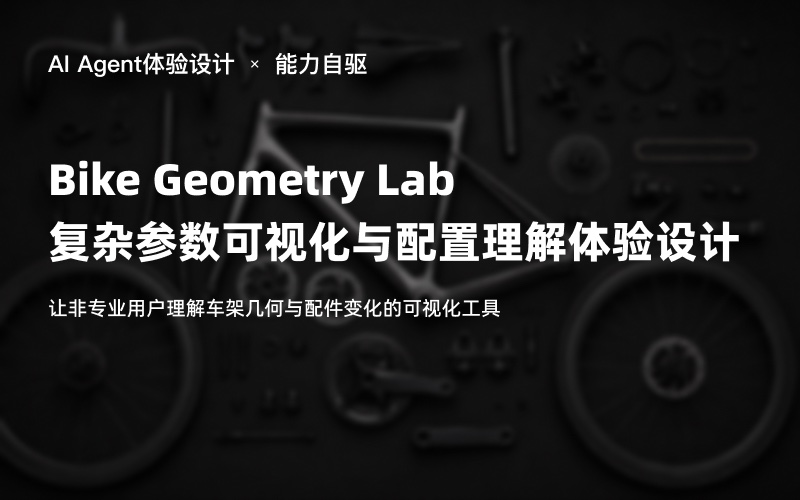
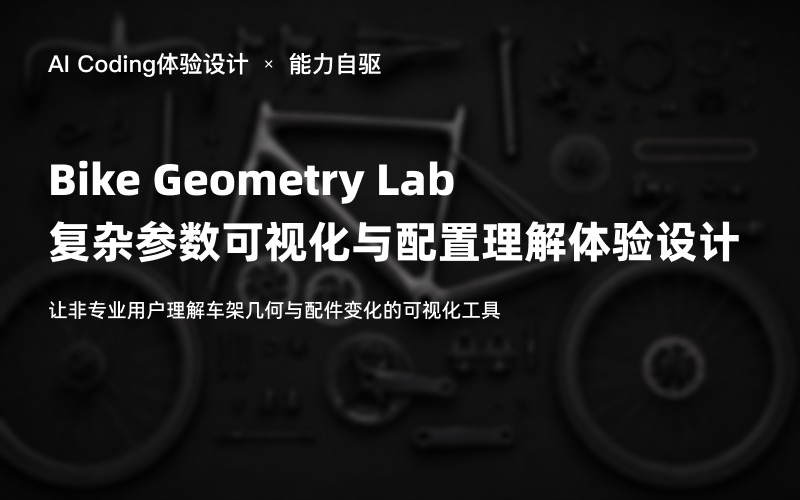
1

Changed region(s): [[0.0625, 0.6, 0.625, 0.66], [0.0938, 0.09, 0.5, 0.15]]

diff --git a/src/main.jsx b/src/main.jsx
@@ -15,6 +15,13 @@ gsap.registerPlugin(ScrollTrigger)
 
 const scrollToPageTop = () => window.scrollTo({ top: 0, left: 0, behavior: 'auto' })
 const detailReturnTargetKey = 'portfolio:return-to-work'
+const projectCategoryLabels = {
+  '全部': '全部',
+  'UX体验设计': '核心UX项目',
+  '个人项目自驱': 'AI实践探索',
+  'C端项目视觉': 'UI视觉作品',
+  '创作者与生产力平台': 'B端复杂系统',
+}
 
 const markDetailReturnToWork = () => {
   window.sessionStorage.setItem(detailReturnTargetKey, '1')
@@ -301,11 +308,14 @@ function HomePage() {
             aria-selected={activeProjectCategory === category}
             onClick={() => setActiveProjectCategory(category)}
           >
-            {category}
+            {projectCategoryLabels[category] || category}
             {category === 'UX体验设计' && <span className="project-tab-badge">HOT</span>}
           </button>)}
         </div>
         <div className="project-list" key={activeProjectCategory}>
+          {activeProjectCategory === 'C端项目视觉' && visibleProjects.length === 0 && <div className="project-empty-state" role="status">
+            <p>作者正在疯狂爆肝补充作品</p>
+          </div>}
           {visibleProjects.map((p) => <BorderGlow className="project-glow" key={p.index} data-stagger-item>
             <a
               className={`project-card project-link${p.coverOnly ? ' is-cover-only' : ''}`}
@@ -455,7 +465,9 @@ function ProjectDetail({ project }) {
       <div className="shell detail-intro">
         <div className="detail-intro-grid">
           <h2>{project.title.split('\n').map((line) => <React.Fragment key={line}>{line}<br/></React.Fragment>)}</h2>
-          <p>{project.description}</p>
+          <p className={project.detailDemoUrl ? 'detail-demo-copy' : undefined}>{project.detailDemoUrl
+            ? <>高保真演示：<a className="detail-demo-link" href={project.detailDemoUrl} target="_blank" rel="noreferrer">{project.detailDemoUrl}</a></>
+            : project.description}</p>
         </div>
       </div>
       <div className="shell detail-media-stack">

diff --git a/src/styles.css b/src/styles.css
@@ -507,4 +507,6 @@ body .hero-actions a,body .contact-actions a{border-radius:6px}.project-glow,.pr
 .project-detail .portfolio-assistant-fab.detail-assistant-fab.is-compact span{max-width:0;opacity:0}
 .project-detail .portfolio-assistant-fab.detail-assistant-fab:hover{transform:translateY(-3px)}
 .project-detail .back-to-top{right:32px;bottom:104px}
+.detail-demo-copy{text-align:right}.detail-demo-link{color:#fff42c;text-decoration:underline;text-decoration-color:rgba(255,244,44,.6);text-underline-offset:.22em;transition:color .2s ease,text-decoration-color .2s ease}.detail-demo-link:hover{color:#fff42c;text-decoration-color:currentColor}
 .project-detail .portfolio-assistant-fab.detail-assistant-fab:hover{background:#fff!important;border-color:#fff!important;color:#111!important;box-shadow:0 20px 48px rgba(0,0,0,.42),0 12px 34px rgba(255,255,255,.3)!important}
+.project-empty-state{grid-column:1/-1;min-height:300px;display:grid;place-items:center;border:1px dashed rgba(255,255,255,.14);border-radius:12px;background:rgba(255,255,255,.025);text-align:center}.project-empty-state p{margin:0;color:#888;font-size:16px;letter-spacing:.04em}

diff --git a/src/data/projects.js b/src/data/projects.js
@@ -4,6 +4,7 @@ export const projectCategories = [
   '全部',
   'UX体验设计',
   '个人项目自驱',
+  'C端项目视觉',
   '创作者与生产力平台',
 ]
 
@@ -171,4 +172,15 @@ export const projects = [
     category: '个人项目自驱',
     externalUrl: 'https://bikelabfeel.top/',
   },
+  createProjectTemplate('11', {
+    title: '迅雷云盘\nPC端核心体验重构与交互原型实践',
+    description: '从信息架构到高保真交互实现，探索设计与 AI Coding 协同的体验验证方式',
+    tags: ['PC端实践', '体验设计'],
+    categories: ['UX体验设计', '个人项目自驱'],
+    image: assetUrl('project-covers/11.jpg'),
+    detailTitle: '迅雷云盘\nPC端核心体验重构与交互原型实践',
+    detailSubtitle: '从信息架构到高保真交互实现，探索设计与 AI Coding 协同的体验验证方式',
+    detailDemoUrl: 'https://xunleidemo.vercel.app/',
+    detailMedia: Array.from({ length: 5 }, (_, index) => assetUrl(`project-11/${String(index + 1).padStart(2, '0')}.webp`)),
+  }),
 ]
